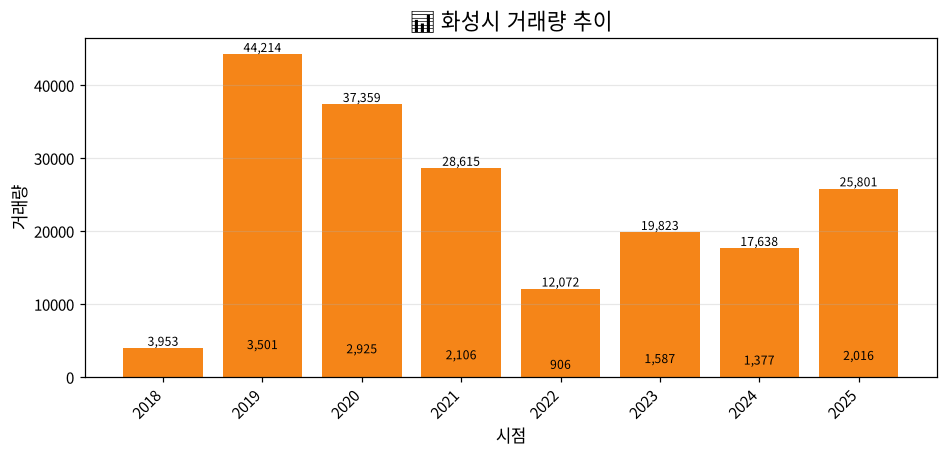
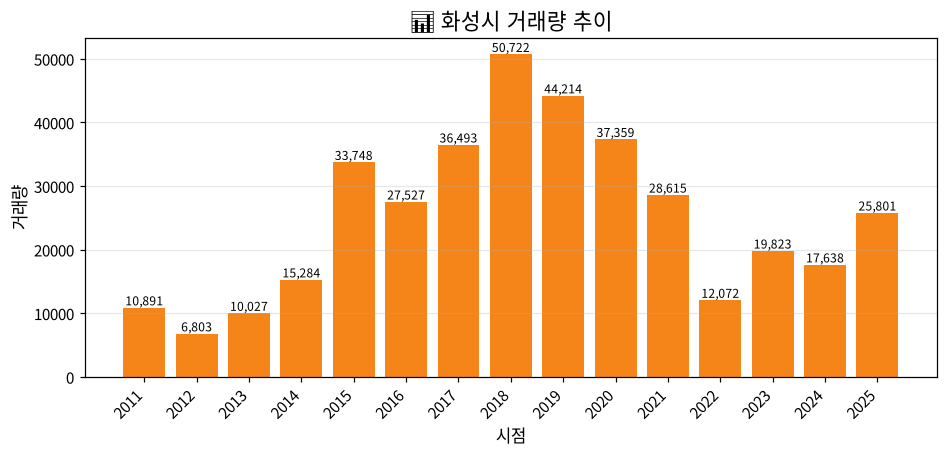
Auto-post: 📊 화성시 거래량 분석

diff --git a/_posts/2026-10-05-화성시-거래량-분석.md b/_posts/2026-10-05-화성시-거래량-분석.md
@@ -1,0 +1,261 @@
+---
+layout: post
+title: "📊 화성시 거래량 분석"
+date: 2026-10-05 10:56:57 +0900
+categories: 부동산 거래량
+---
+
+> **2026년 10월 05일 기준** 아파트 거래량 추이
+
+## 📌 개요
+
+**화성시** 지역의 아파트 거래량(동/호수 기준) 추이를 분석했습니다.
+
+![화성시 거래량](/real-estate-blog/assets/images/volume_화성시.png)
+
+## 📈 연도별 거래량 (동/호수)
+
+| 연도 | 거래량 | 전년 대비 |
+|---|---|---|
+| 2011 | 10,891 | - |
+| 2012 | 6,803 | 🔻 -37.5% |
+| 2013 | 10,027 | 🔺 +47.4% |
+| 2014 | 15,284 | 🔺 +52.4% |
+| 2015 | 33,748 | 🔺 +120.8% |
+| 2016 | 27,527 | 🔻 -18.4% |
+| 2017 | 36,493 | 🔺 +32.6% |
+| 2018 | 50,722 | 🔺 +39.0% |
+| 2019 | 44,214 | 🔻 -12.8% |
+| 2020 | 37,359 | 🔻 -15.5% |
+| 2021 | 28,615 | 🔻 -23.4% |
+| 2022 | 12,072 | 🔻 -57.8% |
+| 2023 | 19,823 | 🔺 +64.2% |
+| 2024 | 17,638 | 🔻 -11.0% |
+| 2025 | 25,801 | 🔺 +46.3% |
+
+
+## 📊 핵심 지표
+
+- **최근 시점**: 2025
+- **거래량**: 25,801건
+- **전년 대비**: **+46.3%**
+
+## 💡 해석
+
+거래량은 **시장 활성도의 바로미터**입니다:
+
+| 거래량 추세 | 의미 |
+|---|---|
+| 📈 증가 | 매수세 활발, 시장 활성화 |
+| ➡ 보합 | 관망세 |
+| 📉 감소 | 거래 위축, 조정 신호 |
+
+## ⚠ 참고
+
+- 거래량은 계절성이 강합니다 (봄/가을 성수기).
+- 전년 동기 대비(YoY)가 더 정확합니다.
+- 본 데이터는 연간 **동(호)수** 기준입니다.
+
+---
+*한국부동산원 R-ONE 데이터 기반*
+
+---
+
+## 🏢 화성시 실제 거래 사례
+
+> 국토교통부 실거래가 공개시스템 기반 (최근 3개월)
+
+### 📊 요약 통계
+
+| 항목 | 값 |
+|---|---|
+| **총 거래건수** | 349건 |
+| **평균 거래가** | 79,077만원 |
+| **중위 거래가** | 76,000만원 |
+| **최고 거래가** | 262,000만원 |
+| **최저 거래가** | 43,000만원 |
+| **평균 평당가** | 3,537만원/평 |
+| **최근 거래월** | 202609 |
+
+### 🏆 거래 활발한 아파트 Top 10
+
+| 순위 | 아파트 | 동 | 거래건수 | 평균거래가(만원) | 평균평당가(만원) |
+|---|---|---|---|---|---|
+| 1 | **동탄2하우스디더레이크** | 송동 | 12건 | 96,958 | 5,003 |
+| 2 | **엔에이치에프경남아너스빌** | 목동 | 11건 | 56,067 | 2,795 |
+| 3 | **동탄파크한양수자인** | 영천동 | 10건 | 48,940 | 2,783 |
+| 4 | **이편한세상동탄** | 목동 | 10건 | 73,350 | 2,746 |
+| 5 | **동탄역포레너스** | 영천동 | 9건 | 84,156 | 3,416 |
+| 6 | **동탄호수자이파밀리에** | 장지동 | 9건 | 76,811 | 3,919 |
+| 7 | **엔에이치에프엘크루** | 장지동 | 9건 | 57,933 | 2,731 |
+| 8 | **레이크힐 반도유보라 아이비파크 10.2** | 산척동 | 9건 | 59,639 | 2,255 |
+| 9 | **동탄시범다은마을 월드메르디앙 반도유보라** | 반송동 | 9건 | 95,600 | 4,932 |
+| 10 | **동탄2신도시 베라체** | 목동 | 8건 | 64,662 | 3,564 |
+
+### 📋 최근 거래 상세 (Top 15)
+
+| 거래일 | 동 | 아파트 | 거래가(만원) | 면적(m²) | 층 | 평당가(만원) |
+|---|---|---|---|---|---|---|
+| 2026-09 | 영천동 | 동탄역포레너스 | 85,000 | 84.5 | 12 | 3,325 |
+| 2026-09 | 산척동 | 중흥에스클래스에듀하이 | 72,000 | 83.0 | 11 | 2,867 |
+| 2026-09 | 장지동 | 한화 포레나 동탄호수 | 95,000 | 84.0 | 8 | 3,737 |
+| 2026-09 | 반송동 | 동탄시범다은마을 월드메르디앙 반도유보라 | 91,000 | 59.1 | 15 | 5,093 |
+| 2026-09 | 영천동 | 동탄역센트럴상록아파트 | 109,800 | 60.0 | 6 | 6,052 |
+| 2026-09 | 산척동 | 동탄 더 레이크 팰리스 | 66,600 | 84.5 | 6 | 2,604 |
+| 2026-09 | 능동 | 동탄숲속마을자연앤경남아너스빌(1124-0) | 76,000 | 84.5 | 8 | 2,973 |
+| 2026-09 | 산척동 | 동탄 더샵 레이크에듀타운 | 95,100 | 84.4 | 10 | 3,723 |
+| 2026-09 | 능동 | 동탄숲속마을 모아미래도1단지 | 74,500 | 84.1 | 28 | 2,927 |
+| 2026-09 | 송동 | 동탄2하우스디더레이크 | 103,500 | 75.0 | 21 | 4,564 |
+| 2026-09 | 산척동 | 레이크힐 반도유보라 아이비파크 10.2 | 63,000 | 96.8 | 10 | 2,152 |
+| 2026-09 | 능동 | 동탄숲속마을 광명메이루즈 | 75,000 | 84.5 | 10 | 2,934 |
+| 2026-09 | 산척동 | 더레이크시티부영5단지 | 79,000 | 60.4 | 3 | 4,325 |
+| 2026-09 | 산척동 | 더레이크시티부영6단지 | 62,000 | 60.5 | 1 | 3,386 |
+| 2026-09 | 반송동 | 시범한빛마을동탄아이파크 | 127,700 | 85.0 | 21 | 4,969 |
+
+> ⚠ 실거래가는 신고 지연, 해제 거래 등으로 실제와 차이가 있을 수 있습니다.
+
+## 🧠 편집자 인사이트
+
+화성시 아파트 시장에서 감지되는 가장 뚜렷한 신호는 거래의 응집력과 가격 방어선입니다. 집계된 총 349건의 실거래 내역을 살펴보면, 평균 거래가는 7억 9,077만 원, 중위가격은 7억 6,000만 원으로 확인됩니다. 평균 평당가 역시 3,537만 원 선을 형성하며 탄탄한 흐름을 유지하고 있습니다. 최고 거래가가 26억 2,000만 원까지 치솟은 반면 최저가는 4억 3,000만 원에 머물며 단지 간 격차는 존재하지만, 평균과 중위가격의 편차가 크지 않다는 점은 특정 초고가 거래에 시장 전체가 왜곡된 것이 아니라 7억 후반대 매물대를 중심으로 실질적인 손바뀜이 꾸준히 누적되고 있음을 명확히 보여줍니다.
+
+이러한 거래 집중 현상의 기저에는 동탄2신도시를 중심으로 한 주거 선호도와 삼성 반도체 배후 주거지라는 화성시 고유의 입지적 특성이 자리 잡고 있습니다. 고용 기반이 안정적인 직주근접 수요층이 탄탄하게 받쳐주면서, 대외적인 경기 불확실성 속에서도 유효 매수세가 완전히 꺾이지 않고 버텨내는 형국입니다. 특히 평당 3,500만 원을 웃도는 가격대에서 300건이 넘는 실거래가 성사되었다는 사실은, 실수요자들이 동탄2신도시 핵심권역의 현 시세를 일정 부분 심리적 저항 없이 받아들이고 있음을 방증합니다. 급격한 추격 매수보다는 확실한 대기 수요를 바탕으로 하방 압력을 흡수하는 양상입니다.
+
+지표와 체감 시장을 면밀히 대조해 보면 미묘한 온도 차도 관찰됩니다. 평당 3,537만 원이라는 실거래 레벨과 7억 9,000만 원 선의 평균가는 과거 고점 대비 하방 지지선을 형성하는 모멘텀으로 읽히지만, 총 거래량 349건은 시장 전체의 대세 상승을 이끌기에는 다소 제한적인 볼륨입니다. 즉, 지수가 가리키는 방향성과 비교했을 때 실거래 가격대는 견고함을 유지하고 있으나, 거래 회전율의 가속도 측면에서는 여전히 선별적 접근이 이뤄지고 있습니다. 최고가 26억 2,000만 원이 보여주는 상방 여력과 최저가 4억 3,000만 원 사이의 간극은, 지역 내에서도 핵심 랜드마크와 외곽 단지 간의 거래 양극화가 동시에 진행 중임을 암시합니다.
+
+향후 시장 흐름은 거래량의 추가 확장 여부에 따라 두 가지 시나리오로 나뉠 수 있습니다. 긍정적인 관점에서는 7억 중후반대 매물이 소진된 후 매수세가 인접 권역으로 번지며 거래량 증가와 함께 완만한 가격 상승세가 나타날 가능성이 있습니다. 반면 신중한 관점에서는 현재의 거래량이 실거주 목적의 대기 수요가 일시적으로 소진된 결과일 수 있으며, 추가적인 가격 부담감으로 인해 거래 건수가 다시 둔화되며 긴 횡보 국면에 진입할 위험도 배제하기 어렵습니다.
+
+평균 7억 9,000만 원대에서 체결된 349건의 실거래는 화성시 부동산의 확고한 바닥을 알리는 안도감의 지표일까요, 아니면 제한된 수요만이 움직인 일시적 저항선의 확인일까요?
+
+
+---
+
+## 🏘 화성시 지역 특성
+
+### 📍 위치
+경기도 남부
+
+### 🚇 주요 역세권
+동탄역 (SRT/GTX-A), 병점역 (1호선), 오산역
+
+### 🏗 개발 호재
+동탄2신도시, GTX-A 개통, 삼성전자 반도체 캠퍼스
+
+### 🎓 학군
+우수 (동탄 학원가)
+
+### 💡 지역 특징
+동탄신도시 중심, 반도체 클러스터 배후, 인구 급증
+
+> ⚠ 개발 호재는 계획 단계이며, 실제 진행 여부와 시기는 변동될 수 있습니다.
+
+
+
+---
+
+## ❓ 자주 묻는 질문 (FAQ)
+
+### Q1. 거래량이 왜 중요한가요?
+
+거래량은 시장 활성도의 바로미터입니다. 가격 상승 + 거래량 증가 = 건강한 상승, 가격 상승 + 거래량 감소 = 거품 가능성입니다.
+
+### Q2. 화성시 부동산 시세는 어디서 확인할 수 있나요?
+
+한국부동산원 R-ONE (reb.or.kr/r-one)에서 공식 데이터를 확인할 수 있습니다. 본 블로그의 분석도 해당 데이터를 기반으로 합니다.
+
+### Q3. QoQ와 YoY 중 어떤 지표를 더 중요하게 봐야 하나요?
+
+단기 투자에는 QoQ(전분기 대비)가, 장기 투자에는 YoY(전년 대비)가 더 유용합니다. 두 지표가 **모두 양수**일 때 가장 건강한 상승세입니다.
+
+### Q4. 지금이 화성시 매수 적기인가요?
+
+본 분석은 참고용이며 매수 시점을 단정할 수 없습니다. QoQ, YoY, 가속도, 모멘텀 등 여러 지표를 종합적으로 보고, 현장 답사와 전문가 상담을 거쳐 결정하세요.
+
+
+
+
+---
+
+## 📚 부동산 용어 정리
+
+이 글에서 사용된 주요 용어를 정리했습니다.
+
+| 용어 | 설명 |
+|---|---|
+| **QoQ (전분기 대비)** | Quarter over Quarter. 직전 분기 대비 변화율. 단기 모멘텀 파악 |
+| **YoY (전년 대비)** | Year over Year. 작년 동기 대비 변화율. 장기 추세 파악 |
+| **가속도** | 최근 3개월 상승률 - 이전 3개월 상승률. 상승이 빨라지는지 판단 |
+| **모멘텀** | 연속 상승 개월 수. 추세의 견고함 |
+| **핫스코어** | 여러 지표를 종합한 0~100 점수. 높을수록 활발한 지역 |
+| **지수 재조정** | 통계 기준시점이 변경되어 모든 값이 100으로 초기화되는 것 |
+| **변동성** | 시세의 불안정성. 낮을수록 안정적 |
+
+
+
+---
+
+## ✅ 부동산 투자 체크리스트
+
+이 글을 읽고 실제 투자를 고려한다면 다음을 확인하세요.
+
+### 📊 시장 분석
+- [ ] **QoQ + YoY 모두 상승** 중인가?
+- [ ] **가속도가 양수**인가? (상승이 빨라지는가)
+- [ ] **모멘텀이 3개월 이상**인가?
+- [ ] **거래량도 함께 증가**하는가?
+
+### 🏘 지역 분석
+- [ ] **교통 호재** (지하철, GTX 등)가 있는가?
+- [ ] **개발 계획** (재개발, 신도시)이 있는가?
+- [ ] **학군**이 양호한가?
+- [ ] **기반 시설** (병원, 마트, 공원)이 충분한가?
+
+### 💰 재무 분석
+- [ ] **전세가율**이 적정한가? (60~80%)
+- [ ] **대출 이자**를 감당할 수 있는가?
+- [ ] **세금** (취득세, 재산세)을 고려했는가?
+- [ ] **5년 이상 보유**할 계획인가?
+
+### ⚠ 리스크 관리
+- [ ] **분산 투자**되어 있는가?
+- [ ] **비상 자금**이 확보되어 있는가?
+- [ ] **금리 인상** 시나리오를 고려했는가?
+
+> 💡 **참고**: 이 체크리스트는 일반적인 가이드이며, 개인 상황에 따라 다를 수 있습니다.
+
+
+
+---
+
+## 📚 데이터 출처 및 분석 방법
+
+### 데이터 출처
+- **한국부동산원 R-ONE Open API** ([reb.or.kr/r-one](https://www.reb.or.kr/r-one/))
+- 갱신 주기: 매월 초 (월간), 분기 종료 후 1~2개월 (분기)
+- 데이터 기간: 2006년 ~ 현재
+
+### 분석 방법
+- **아파트 매매지수** 기반 (2021.06 = 100 기준)
+- 지수는 지역별 상대적 가격 변동을 반영
+- 절대 가격이 아닌 **추세**를 분석
+
+### 주의사항
+- 본 분석은 **통계적 지표**에 기반한 참고 자료입니다
+- 실제 투자 결정은 **현장 답사, 전문가 상담** 후 진행하세요
+- 과거 데이터가 미래를 보장하지 않습니다
+- 정책, 금리, 공급 등 **외부 요인**은 반영되지 않았습니다
+
+
+
+---
+
+## ⚖ 면책 조항
+
+본 글은 **한국부동산원 R-ONE Open API 데이터**를 기반으로 작성된 자료입니다.
+
+- 본 분석은 **정보 제공 목적**이며, 특정 부동산의 매수/매도를 권유하지 않습니다
+- 투자 결정과 그 결과에 대한 책임은 **투자자 본인**에게 있습니다
+- 데이터 오류, 지연, 누락 가능성이 있습니다
+- 정책, 금리, 공급 등 외부 요인은 분석에 반영되지 않았습니다
+- 과거 데이터가 미래 수익을 보장하지 않습니다
+
+> 본 블로그의 모든 콘텐츠는 **참고용**으로만 활용하시기 바랍니다.
